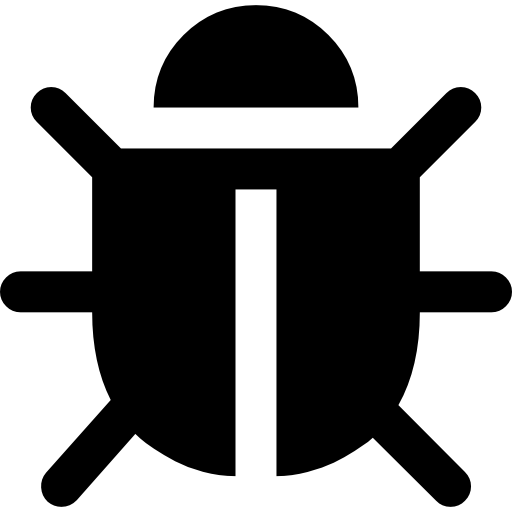
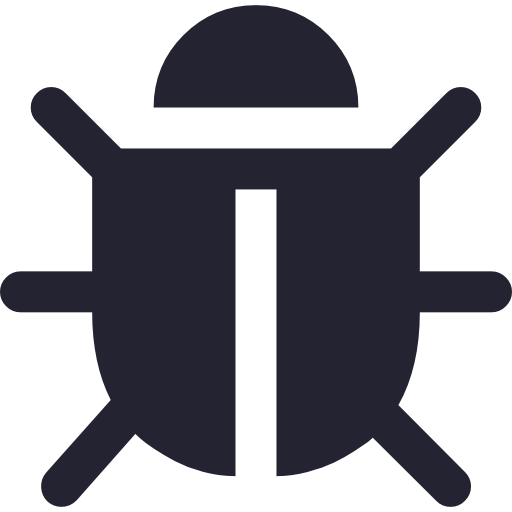
added search section and res for online configs, added local configs and connected with radio inputs in js

diff --git a/src/index.html b/src/index.html
@@ -129,11 +129,11 @@
       <form id="form-configurations-settings" action="configurate" method="post"> <!--form-configurations-settings--> 
           <div class="d-settings-info--quantities">
           <label class="label-settings-info--quantities">Number of cavities:</label><!--label-settings-info--quantities-->
-          <input class="input-settings-info--quantities" value="6"/> <!--input-settings-info--quantities--> 
+          <input class="input-settings-info--quantities" type="number" value="6"/> <!--input-settings-info--quantities--> 
         </div>
         <div class="d-settings-info--quantities">
           <label class="label-settings-info--quantities">Initial seeds per cavity:</label><!--label-settings-info--quantities--> 
-          <input class="input-settings-info--quantities" value="5"/> <!--input-settings-info--quantities--> 
+          <input class="input-settings-info--quantities" type="number" value="5"/> <!--input-settings-info--quantities--> 
           </div>
 
         <p class="p-settings-instructions">Please select your game mode:</p> <!--p-settings-instructions--> 
@@ -149,20 +149,40 @@
           <input class="radio-settings-info--mode" type="radio" name="mode" id="ai" value="ai" /> <!--radio-settings-info--mode--> 
           <label class="label-settings-info--mode">Against the computer</label> <!--label-settings-info--mode--> 
         </div>
+        <div id="d-settings-mode--local">
+          <p id="p-mode-local-instructions">Instructions to local game:</p>
+          <ul id="ul-mode-local-intructions">
+          <li class="li-mode-local-instructions">Both players use the mouse to play at each turn.</li>
+          <li class="li-mode-local-instructions">If you're logged in, the game score will be saved as against a local player.</li>
+          </ul>
+        </div>
+        <div id="d-settings-mode--online">
+          <p class="p-settings-instructions">Search online players:</p>
+          <div id="d-mode-online-search-bar">
+            <img id="img-search-bar-icon" src="../res/search_icon.png">
+            <input id="input-search-bar" type="text">
+            <img id="img-search-bar-add-icon" src="../res/add_icon.png">
+          </div>
+          <div id="d-mode-online-results">
+          <p id="p-mode-online-results--title">Results:</p>
+          <p id="p-mode-online-results--text">There's no user with that name :(</p>
+          </div>
+        </div>
+        <div id="d-settings-mode--computer">
+          <p class="p-settings-instructions">Please select the AI dificulty level:</p> <!--p-settings-instructions--> 
 
-        <p class="p-settings-instructions">Please select the AI dificulty level:</p> <!--p-settings-instructions--> 
-
-        <div class="d-settings-info--dificulty"> <!--d-settings-info--dificulty--> 
-          <input class="radio-settings-info--dificulty" type="radio" name="dificulty" checked/> <!--radio-settings-info--dificulty--> 
-            <label class="label-settings-info--dificulty">Easy</label> <!--label-settings-info--dificulty--> 
-        </div> <!--d-settings-info--dificulty--> 
-        <div class="d-settings-info--dificulty"> <!--d-settings-info--dificulty--> 
-          <input class="radio-settings-info--dificulty" type="radio" name="dificulty" /> <!--radio-settings-info--dificulty--> 
-            <label class="label-settings-info--dificulty">Medium</label>  <!--label-settings-info--dificulty--> 
-        </div> <!--d-settings-info--dificulty--> 
-        <div class="d-settings-info--dificulty"> <!--d-settings-info--dificulty--> 
-          <input class="radio-settings-info--dificulty" type="radio" name="dificulty" />  <!--radio-settings-info--dificulty-->
-            <label class="label-settings-info--dificulty">Hard</label><br />  <!--label-settings-info--dificulty--> 
+          <div class="d-settings-info--dificulty"> <!--d-settings-info--dificulty--> 
+            <input class="radio-settings-info--dificulty" type="radio" name="dificulty" checked/> <!--radio-settings-info--dificulty--> 
+              <label class="label-settings-info--dificulty">Easy</label> <!--label-settings-info--dificulty--> 
+          </div> <!--d-settings-info--dificulty--> 
+          <div class="d-settings-info--dificulty"> <!--d-settings-info--dificulty--> 
+            <input class="radio-settings-info--dificulty" type="radio" name="dificulty" /> <!--radio-settings-info--dificulty--> 
+              <label class="label-settings-info--dificulty">Medium</label>  <!--label-settings-info--dificulty--> 
+          </div> <!--d-settings-info--dificulty--> 
+          <div class="d-settings-info--dificulty"> <!--d-settings-info--dificulty--> 
+            <input class="radio-settings-info--dificulty" type="radio" name="dificulty" />  <!--radio-settings-info--dificulty-->
+              <label class="label-settings-info--dificulty">Hard</label><br />  <!--label-settings-info--dificulty--> 
+          </div>
         </div>
         <div id="d-settings-buttons">
           <input class="button-settings-info" type="submit" value="Configurate" class="button-settings" /> <!--button-settings-info--> 
@@ -275,7 +295,7 @@
 			<a id="footer-about-us" href="https://github.com/N0il/Mancala" target="_blank">About us</a>
       <p><b>Mancala</b> - Keep the traditions</p>
         <a id="a-footer-report-bug" href="https://github.com/N0il/Mancala/issues/new" target="_blank">
-        <img id="footer-bug-icon" src="../res/bug_icon_grey.png" href="https://github.com/N0il/Mancala/issues/new">
+        <img id="footer-bug-icon" src="../res/bug_icon.png" href="https://github.com/N0il/Mancala/issues/new">
         <p>Report a bug</p>
         </a>
 		</footer>

diff --git a/src/style.css b/src/style.css
@@ -449,9 +449,92 @@ a{
 .p-settings-instructions{
     font-weight: bold;
     color: #242331;
+    padding-bottom: 0em;
+    margin-bottom: 1em;
 }
 
-.radio-settings-info--dificulty{
+#p-mode-local-instructions{
+    font-weight: bold;
+    color: #242331;
+    padding-bottom: 0em;
+    margin-bottom: 0.75em;
+}
+
+#ul-mode-local-intructions{
+    padding-top: 0em;
+    margin-top: 0em;
+    padding-left: 1.2em;
+    font-weight: 400;
+    font-size: 0.9em;
+}
+
+#d-settings-mode--local{
+    display: block;
+}
+
+#d-settings-mode--online{
+    display: none;
+}
+
+#d-mode-online-search-bar{
+    display: flex;
+    justify-content: flex-start;
+    align-items: center;
+    gap: 0.8em;
+    margin-top: 1em;
+}
+
+#img-search-bar-icon{
+    width: 1.3em;
+    height: 1.3em;
+}
+
+#img-search-bar-icon:hover{
+    filter: invert(100%) brightness(200%);
+}
+
+#input-search-bar{
+    border-radius: 0.4em;
+	border:none;
+	padding: 0.5em;
+    max-width:80%;
+}
+
+#img-search-bar-add-icon{
+    width: 1.9em;
+    height: 1.9em;
+    padding-left: 1.4em;
+}
+
+#img-search-bar-add-icon:hover{
+    filter: invert(100%) brightness(200%);
+}
+
+#d-mode-online-results{
+    display: flex;
+    justify-content: flex-start;
+    align-items: center;
+    gap: 0.6em;
+    margin-top: 1.1em;
+    margin-bottom: 1.1em;
+}
+
+#p-mode-online-results--title{
+    font-weight: bold;
+    color: #242331;
+    padding:0em;
+    margin: 0;
+}
+
+#p-mode-online-results--text{
+    margin: 0;
+    padding: 0;
+    font-size: 0.9em;
+}
+
+#d-settings-mode--computer{
+    display: none;
+    padding-bottom: 0.05em;
 }
 
 #d-settings-buttons{

diff --git a/src/dynamics.js b/src/dynamics.js
@@ -64,6 +64,31 @@ function signIn(){
   toggleVisibility(false, "form-authentication-login", "form-authentication-signup", "block", "block");
   document.getElementById("section-main-commands").style.display = "flex";
 }
+
+var modes = document.getElementsByClassName("radio-settings-info--mode");
+
+modes[0].addEventListener("click", localConfigs);
+modes[1].addEventListener("click", onlineConfigs);
+modes[2].addEventListener("click", computerConfigs);
+
+function localConfigs(){
+  document.getElementById("d-settings-mode--local").style.display = "block";
+  document.getElementById("d-settings-mode--online").style.display = "none";
+  document.getElementById("d-settings-mode--computer").style.display = "none";
+}
+
+function onlineConfigs(){
+  document.getElementById("d-settings-mode--local").style.display = "none";
+  document.getElementById("d-settings-mode--online").style.display = "block";
+  document.getElementById("d-settings-mode--computer").style.display = "none";
+}
+
+function computerConfigs(){
+  document.getElementById("d-settings-mode--local").style.display = "none";
+  document.getElementById("d-settings-mode--online").style.display = "none";
+  document.getElementById("d-settings-mode--computer").style.display = "block";
+}
+
 /*
 class Cavity {
   constructor() {}
